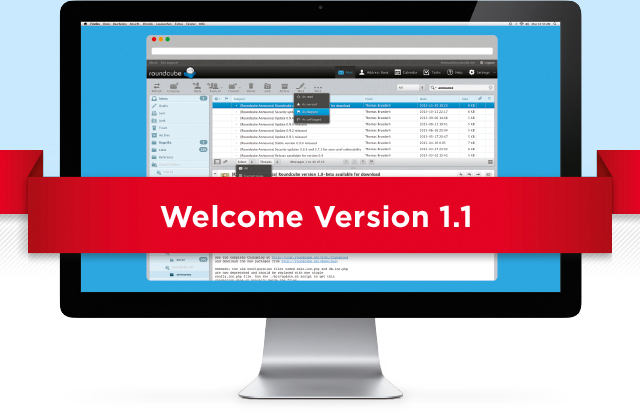
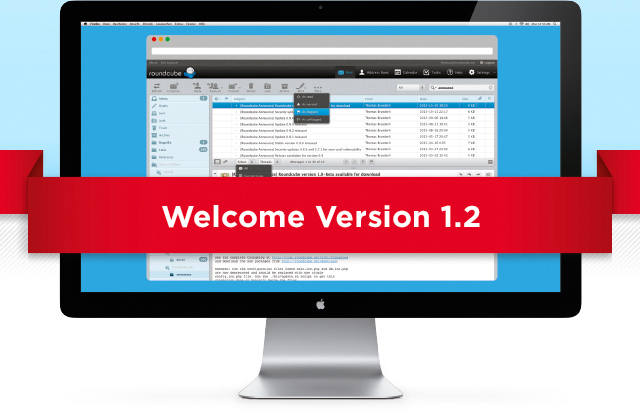
Publish release 1.2.0

diff --git a/download/index.html b/download/index.html
@@ -2,7 +2,7 @@
 layout: default
 title: Roundcube Webmail Downloads
 navtitle: Download
-lastmod: 2016-04-19T20:07:00Z
+lastmod: 2016-05-22T12:07:00Z
 ---
 <h1>Download your version of Roundcube</h1>
 
@@ -21,24 +21,30 @@ lastmod: 2016-04-19T20:07:00Z
 			</thead>
 			<tbody>
 			<tr class="even">
-				<td class="dlversion"><strong>1.1.5</strong> - Dependent (*)</td>
+				<td class="dlversion"><strong>1.2.0</strong> - Dependent (*)</td>
+				<td class="dlbutton"><a href="https://github.com/roundcube/roundcubemail/releases/download/1.2.0/roundcubemail-1.2.0.tar.gz" title="Download now!"><img src="images/table_button_download.png" width="67" height="19" alt="Download" class="pngimage" /></a>
+				<td class="dlsize">3.1 MB</td>
+				<td class="dlchecksum">e3b89c2772c2c5990da9bca640bc342f486edf356016cf717e6a1083c822b523</td>
+			</tr>
+			<tr class="odd">
+				<td class="dlversion"><strong>1.2.0</strong> - Complete</td>
+				<td class="dlbutton"><a href="https://github.com/roundcube/roundcubemail/releases/download/1.2.0/roundcubemail-1.2.0-complete.tar.gz" title="Download now!"><img src="images/table_button_download.png" width="67" height="19" alt="Download" class="pngimage" /></a>
+				<td class="dlsize">3.6 MB</td>
+				<td class="dlchecksum">574895da03b5ad78eaf0843a78e0c0ab734a9327b4ba47b72405b768cb2854cc</td>
+			</tr>
+			<tr class="even">
+				<td class="dlversion"><strong>Framework</strong>: 1.2.0</td>
+				<td class="dlbutton"><a href="https://github.com/roundcube/roundcubemail/releases/download/1.2.0/roundcube-framework-1.2.0.tar.gz" title="Download now!"><img src="images/table_button_download.png" width="67" height="19" alt="Download" class="pngimage" /></a>
+				<td class="dlsize">1.1 MB</td>
+				<td class="dlchecksum">322428f0f818941ef63c3635162697692918dea3be52446128353a7f6358d22a</td>
+			</tr>
+			<tr class="odd">
+				<td class="dlversion"><strong>LTS Version</strong>: 1.1.5</td>
 				<td class="dlbutton"><a href="https://github.com/roundcube/roundcubemail/releases/download/1.1.5/roundcubemail-1.1.5.tar.gz" title="Download now!"><img src="images/table_button_download.png" width="67" height="19" alt="Download" class="pngimage" /></a>
 				<td class="dlsize">3.1 MB</td>
 				<td class="dlchecksum">ed50384c5ca0bcd9df08e1d0f2a46f2e7f468f583bcf410709f0a0659e00c453</td>
 			</tr>
-			<tr class="odd">
-				<td class="dlversion"><strong>1.1.5</strong> - Complete</td>
-				<td class="dlbutton"><a href="https://github.com/roundcube/roundcubemail/releases/download/1.1.5/roundcubemail-1.1.5-complete.tar.gz" title="Download now!"><img src="images/table_button_download.png" width="67" height="19" alt="Download" class="pngimage" /></a>
-				<td class="dlsize">4.4 MB</td>
-				<td class="dlchecksum">476a1d45b0592b2ad43e3e08cbc72e69ef31e33ed8a8f071f02e5a1ae3e7f334</td>
-			</tr>
 			<tr class="even">
-				<td class="dlversion"><strong>Framework</strong>: 1.1.5</td>
-				<td class="dlbutton"><a href="https://github.com/roundcube/roundcubemail/releases/download/1.1.5/roundcube-framework-1.1.5.tar.gz" title="Download now!"><img src="images/table_button_download.png" width="67" height="19" alt="Download" class="pngimage" /></a>
-				<td class="dlsize">1.1 MB</td>
-				<td class="dlchecksum">69dd7dc8c26fc6d209df179d5456e9eee0b7bf4cc2091094433f44670bc4da75</td>
-			</tr>
-			<tr class="odd">
 				<td class="dlversion"><strong>LTS Version</strong>: 1.0.9</td>
 				<td class="dlbutton"><a href="https://github.com/roundcube/roundcubemail/releases/download/1.0.9/roundcubemail-1.0.9.tar.gz" title="Download now!"><img src="images/table_button_download.png" width="67" height="19" alt="Download" class="pngimage" /></a>
 				<td class="dlsize">3.9 MB</td>
@@ -46,7 +52,7 @@ lastmod: 2016-04-19T20:07:00Z
 			</tr>
 			</tbody>
 		</table>
-
+<!--
 		<h2>Beta version</h2>
 		<table class="dltable" border="0" cellspacing="0" cellpadding="2">
 			<thead>
@@ -78,7 +84,7 @@ lastmod: 2016-04-19T20:07:00Z
 			</tr>
 			</tbody>
 		</table>
-
+-->
 		<p class="hint">* Dependent packages only contain sources which are licensed under the GPL but they require some third-party
 			packages to be installed along with Roundcube. All requirements are listed in the INSTALL instructions within the package file.</p>
 
@@ -87,6 +93,7 @@ lastmod: 2016-04-19T20:07:00Z
 			<li>Roundcube can also be installed through auto installers like <a href="http://www.softaculous.com/">softaculous.com</a>
 				or <a href="http://www.cpanel.net/">cPanel.</a></li>
 			<li>The <a href="http://bitnami.com/stack/roundcube">BitNami Roundcube Stack</a> provides a one-click installer var various platforms and cloud services.</li>
+			<li><a href="https://topicdesk.com/downloads/tools/roundcube-for-os-x-server/">Roundcube for OS X Server</a> installer by topicdesk.com</li>
 			<li>Various Unix/Linux distributions provide Roundcube via their package managers. Check your local package repository.</li>
 			<li>For a complete list of releases and release notes please check out the releases page
 				at <a href="https://github.com/roundcube/roundcubemail/releases">GitHub</a> and the archives at

diff --git a/about/index.html b/about/index.html
@@ -45,6 +45,7 @@ lastmod: 2014-04-15T15:40:00Z
 		<li>Import/export functions</li>
 		<li>Template system for custom skins</li>
 		<li>Plug-in API for flexible exensions</li>
+		<li>Support for PGP encryption</li>
 	</ul>
 </div>
 
@@ -52,16 +53,15 @@ lastmod: 2014-04-15T15:40:00Z
 	<h2>Planned features</h2>
 
 	<ul>
-		<li>Support for PGP and S/MIME encryption</li>
-		<li>Online calendar module</li>
+		<li>Support S/MIME encryption</li>
+		<li>Responsive skin for mobile devices</li>
+		<li>Attachment previews</li>
 		<li>Advanced search over all folders</li>
 		<li>Virtual folders (aka saved searches)</li>
 		<li>Keyboard shortcuts</li>
-		<li>Attachment previews</li>
-		<li>Responsive skin for mobile devices</li>
-		<li>Save/link attachments in cloud storage&nbsp;services</li>
 		<li>Conversation view using XCONVERSATIONS</li>
 		<li>Browser history support</li>
+		<li>Online calendar module</li>
 		<li>Admin interface</li>
 	</ul>
 

diff --git a/index.html b/index.html
@@ -5,7 +5,7 @@ date: 2015-06-05T13:20:00Z
 ---
 
 <div id="homescreen">
-	<img id="homescreenshotv10" src="images/homescreen_v1.1.jpg" width="640" height="412" style="" alt="Welcome Roundcube Webmail 1.1" />
+	<img id="homescreenshotv10" src="images/homescreen_v1.2.jpg" width="640" height="412" style="" alt="Welcome Roundcube Webmail 1.2" />
 <!--
 	<div id="homecambaignbanner">
 		<a href="https://www.indiegogo.com/projects/roundcube-next--2" title="Visit our crowdfunding page for more information">

diff --git a/_posts/2016-05-22-roundcube-webmail-1.2.0-released.md b/_posts/2016-05-22-roundcube-webmail-1.2.0-released.md
@@ -1,0 +1,39 @@
+---
+layout: article
+title: Roundcube Webmail 1.2.0 released
+date: 2016-05-22 12:34:23Z
+tags: releases stable
+---
+We proudly announce the stable version 1.2.0 of Roundcube Webmail which is now available for download.
+It introduces new features since version 1.1 covering on security and PGP encryption topics:
+
+* PHP7 compatibility
+* PGP encryption
+* Drag-n-drop attachments from mail preview to compose window
+* Mail messages searching with predefined date interval
+* Improved security measures to protect from brute-force attacks
+
+And of course plenty of small improvements and bug fixes.
+
+As already announced with the [1.2-beta release](/news/2015/11/23/roundcube-webmail-1.2-beta-out-now/), 
+PGP encryption comes in two flavours: client-side using the Mailvelope browser extension 
+and server-side with the Enigma plugin using GnuPG on the server.
+
+Support with the Mailvelope browser plugin comes out of the box and 
+is automatically enabled if the Mailvelope API is detected in a user's browser. 
+The [Mailvelope documentation](https://www.mailvelope.com/en/help#watchlist) 
+explains how to enable it for your site.
+
+The features of the Enigma plugin, which comes with the release package 
+and simply needs to be activated for your Roundcube installation are 
+explained in [this blog post](https://kolabian.wordpress.com/2015/10/13/enigma-plugin-pgp-encryption/).
+
+**IMPORTANT**: with this version, we finally deprecate some [old Roundcube library functions](https://github.com/roundcube/roundcubemail/blob/release-1.2/program/include/bc.php). 
+Please test your plugins thoroughly and look for deprecation warnings in the logs.
+
+With the release of Roundcube 1.2.0, the previous stable release branches 1.0.x 
+and 1.1.x will switch in to LTS low maintenance mode which means they will only 
+receive important security updates but no longer any regular improvement updates.
+
+See the complete [Changelog](https://github.com/roundcube/roundcubemail/wiki/Changelog) in our wiki 
+and download the new packages from [roundcube.net/download](http://roundcube.net/download).

diff --git a/_posts/2015-11-23-roundcube-webmail-1.2-beta-out-now.md b/_posts/2015-11-23-roundcube-webmail-1.2-beta-out-now.md
@@ -41,7 +41,7 @@ See the plugin's README for details.
 Also read [this blogpost](https://kolabian.wordpress.com/2015/10/13/enigma-plugin-pgp-encryption/) 
 about the Enigma plugin and how it works.
 
-**IMPORTANT**: with this version, we finally deprecate some [old Roundcube library functions](https://github.com/roundcube/roundcubemail/blob/master/program/include/bc.php).
+**IMPORTANT**: with this version, we finally deprecate some [old Roundcube library functions](https://github.com/roundcube/roundcubemail/blob/release-1.2/program/include/bc.php).
 Please test your plugins thoroughly and look for deprecation warnings in the logs.
 
 See the complete Changelog at [trac.roundcube.net/wiki/Changelog](http://trac.roundcube.net/wiki/Changelog) 

diff --git a/_posts/2015-02-08-new-stable-version-1.1-released.md b/_posts/2015-02-08-new-stable-version-1.1-released.md
@@ -2,7 +2,7 @@
 layout: article
 title: New stable version 1.1.0 released
 date: 2015-02-08 14:12:00Z
-tags: releases
+tags: releases stable
 ---
 We're proud to announce the arrival of the next major version 1.1.0 of 
 Roundcube webmail which is now available for download. With this 
